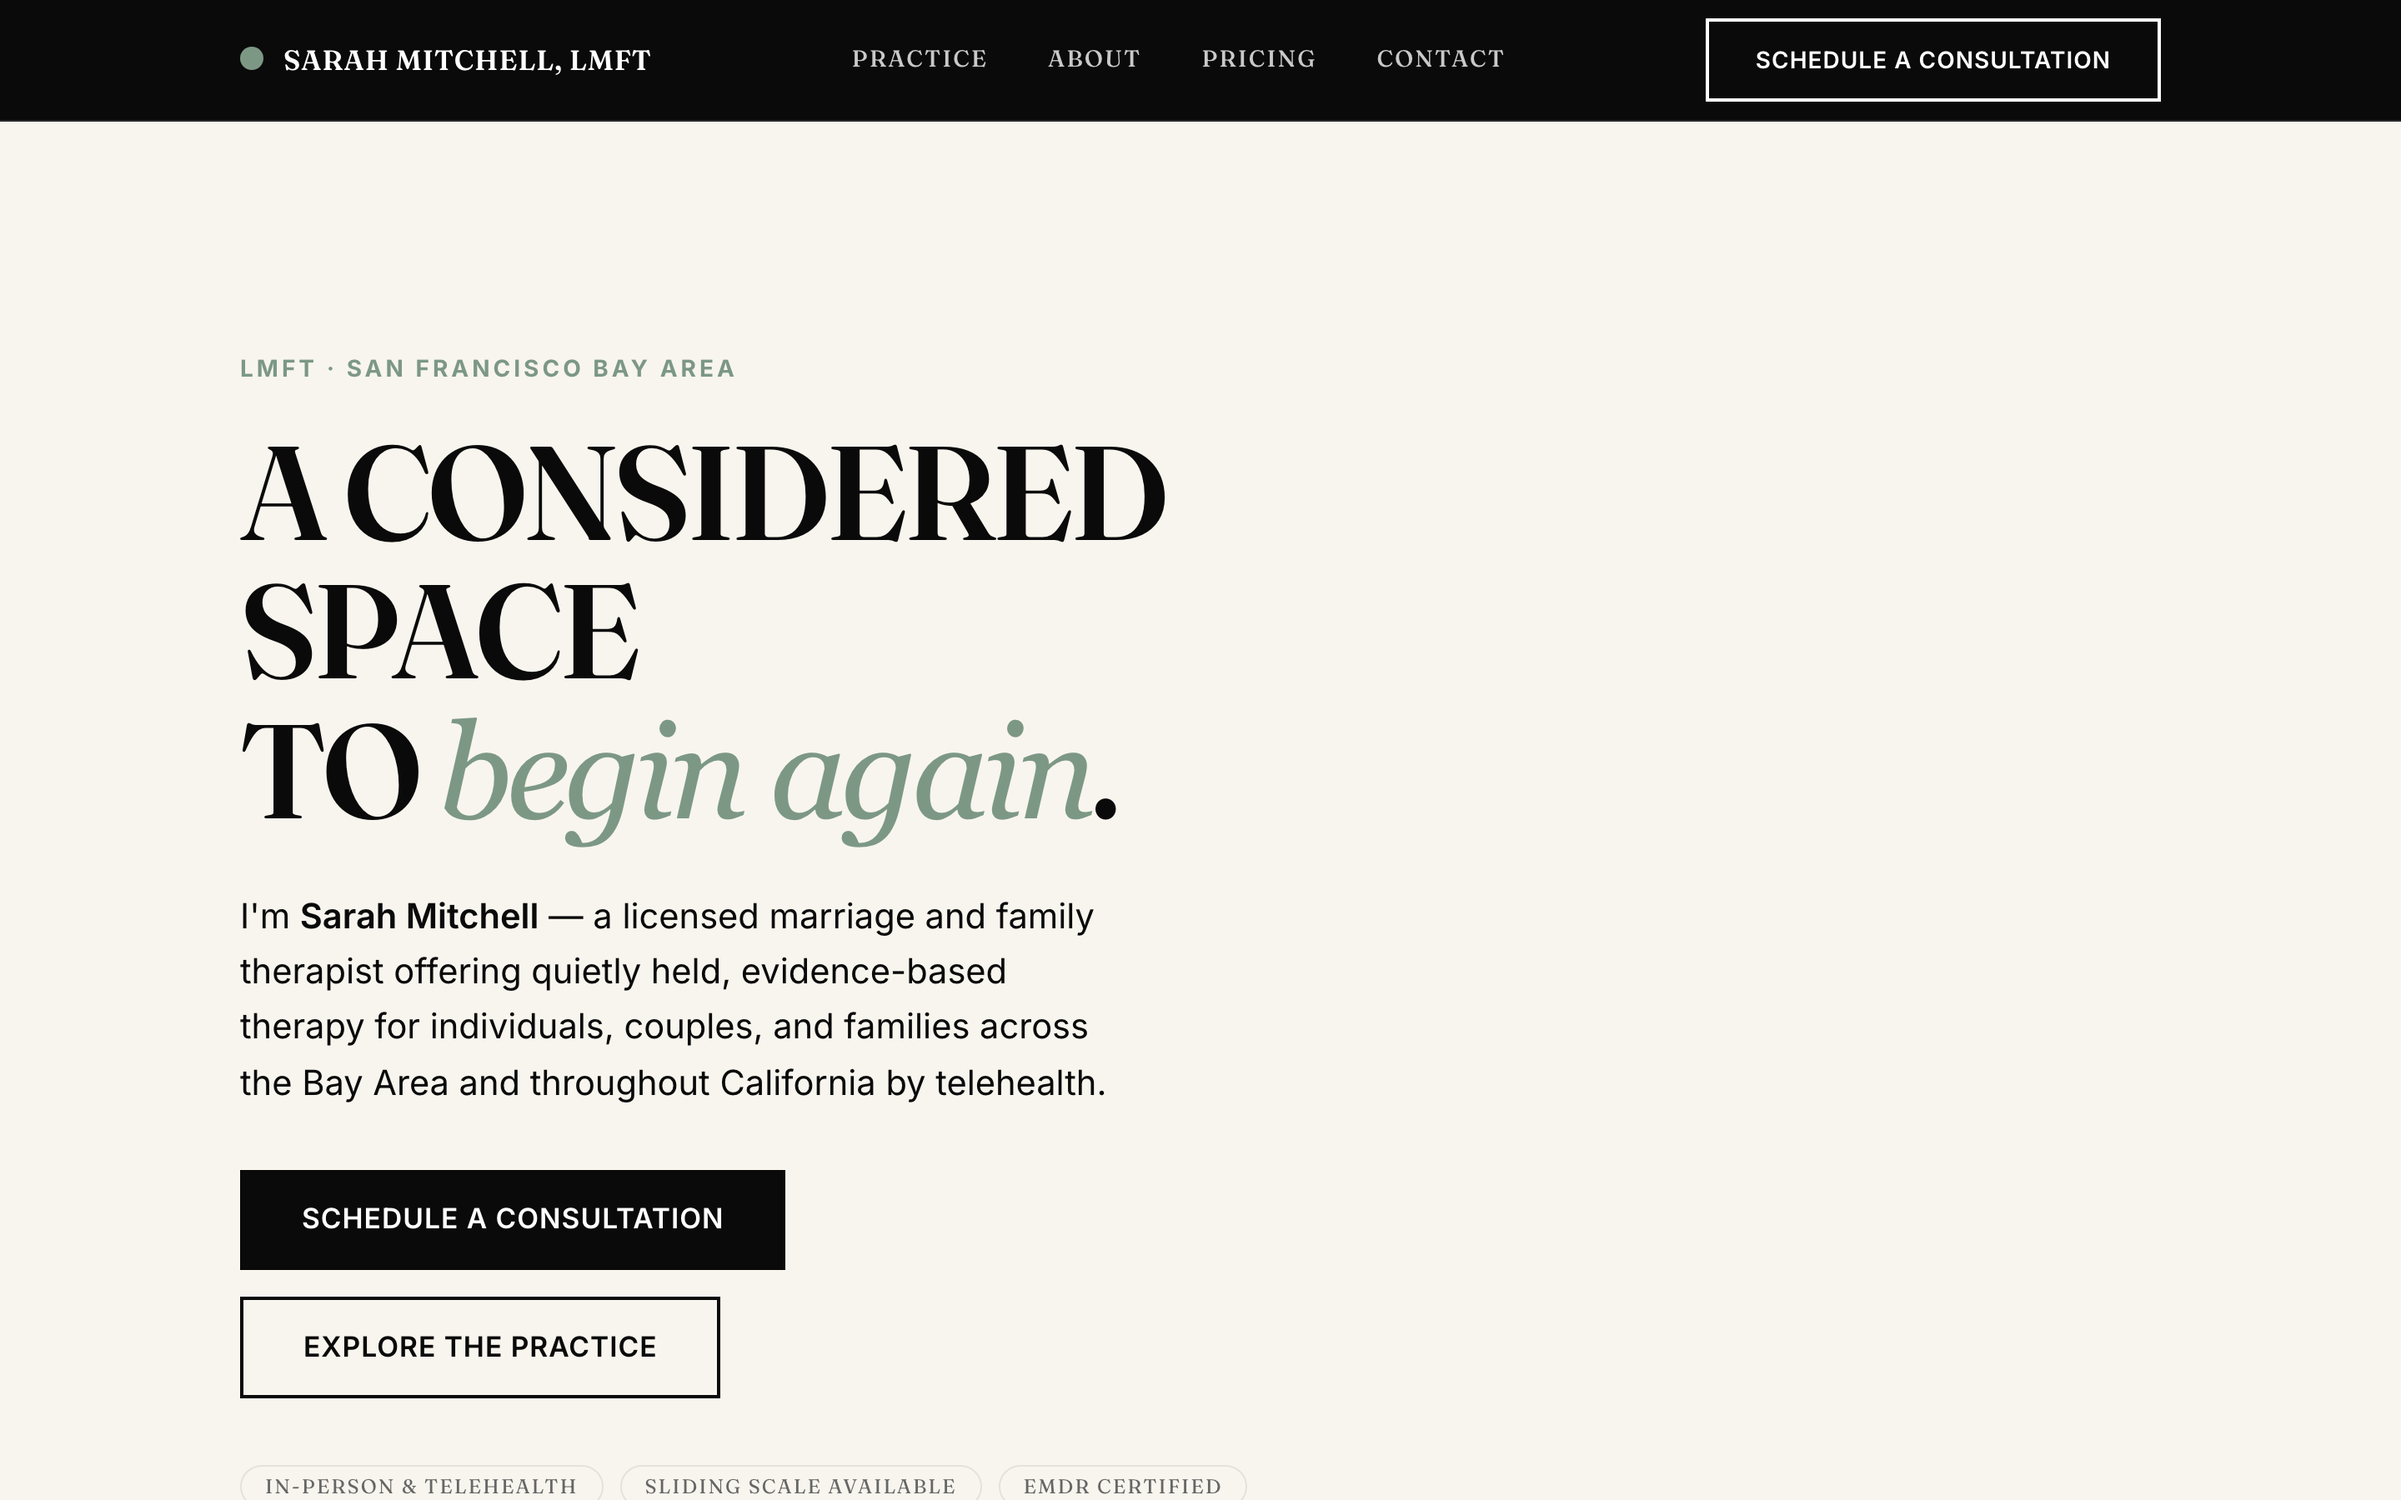
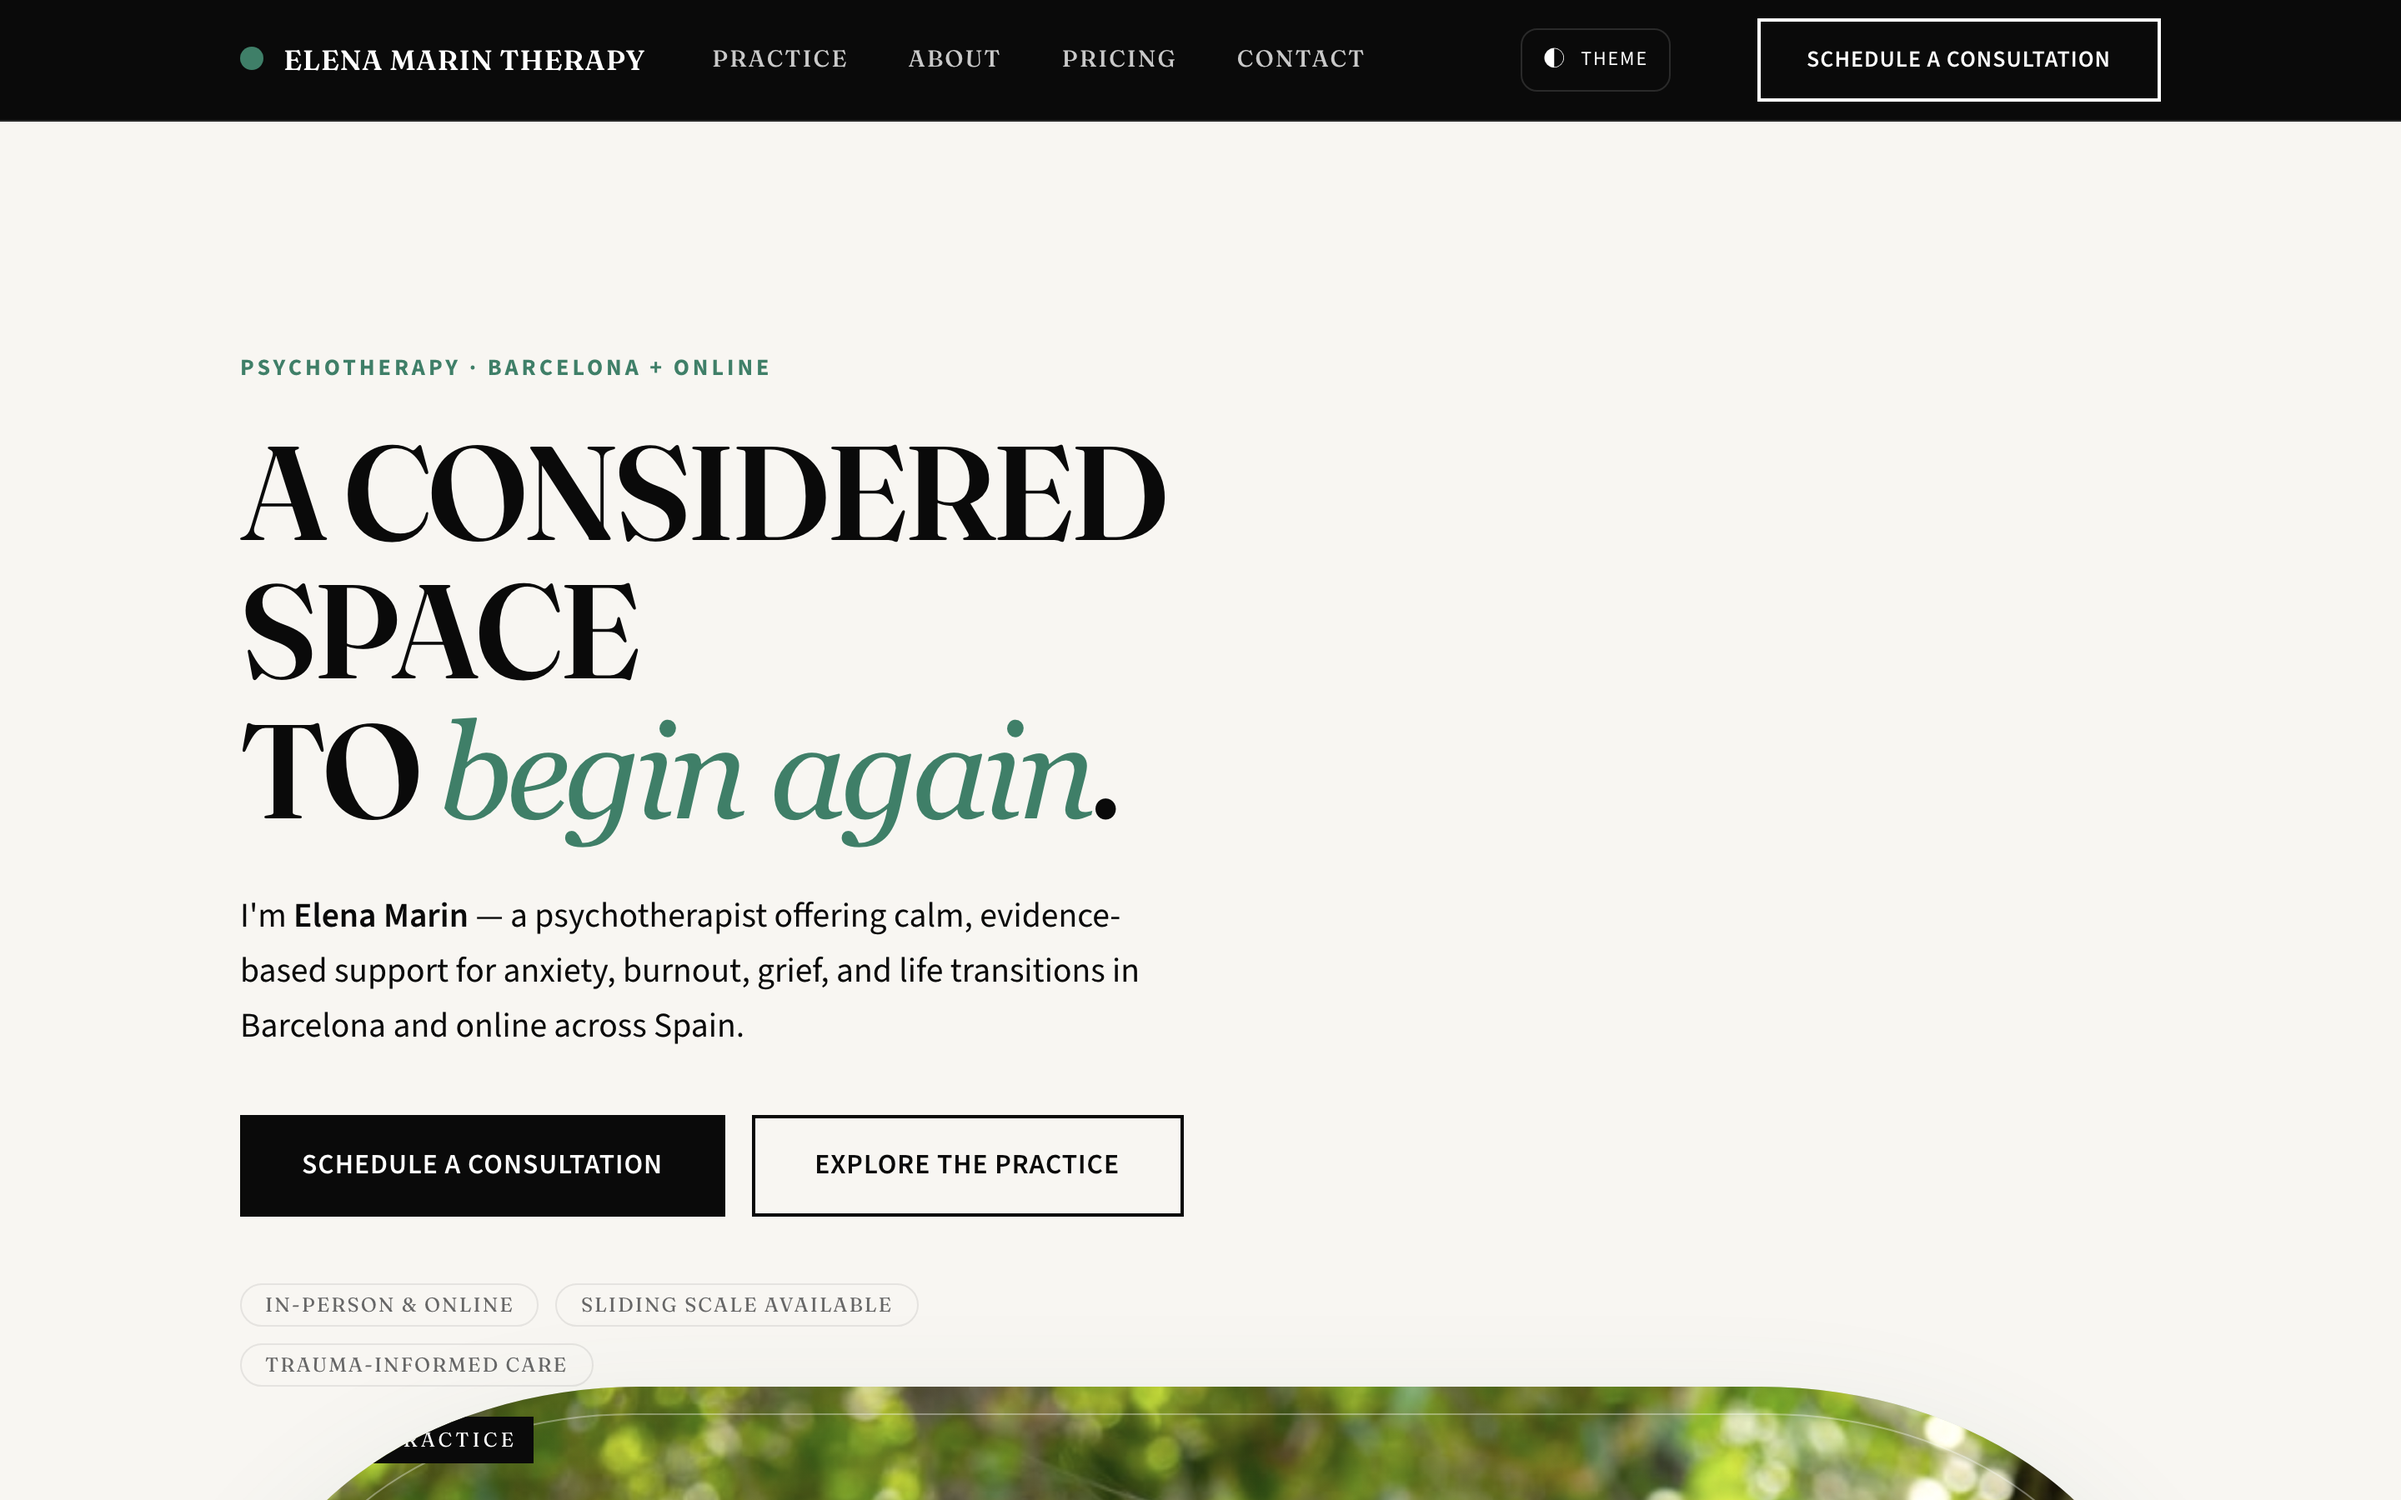
feat(library): real showcase thumbnails for the four demos
Refresh the coach-pro/fitness-coach/therapist-care showcase captures to their
reskinned content and add june-hartley-photo (light + dark, 2880x1800), then
point the June Hartley library card at its real thumbnail instead of the
type-only placeholder.

Note: the landing "proof shelf" entries for these demos live in landing-copy.ts,
which has unrelated in-flight pricing edits — held out of this commit.

diff --git a/apps/flowstarter-main/src/app/(library)/library/_data/templates.ts b/apps/flowstarter-main/src/app/(library)/library/_data/templates.ts
@@ -170,11 +170,8 @@ export const TEMPLATES: readonly TemplateEntry[] = [
     tags: ['photographer', 'wedding', 'portrait', 'creative'],
     repoUrl: null,
     liveUrl: null,
-    thumbnail: null,
-    placeholder: {
-      line: 'June Hartley Photography',
-      sub: 'wedding & portrait · template',
-    },
+    thumbnail: 'june-hartley-photo',
+    hasDarkThumbnail: true,
     previewPath: '/preview/june-hartley-photo/',
   },
 
